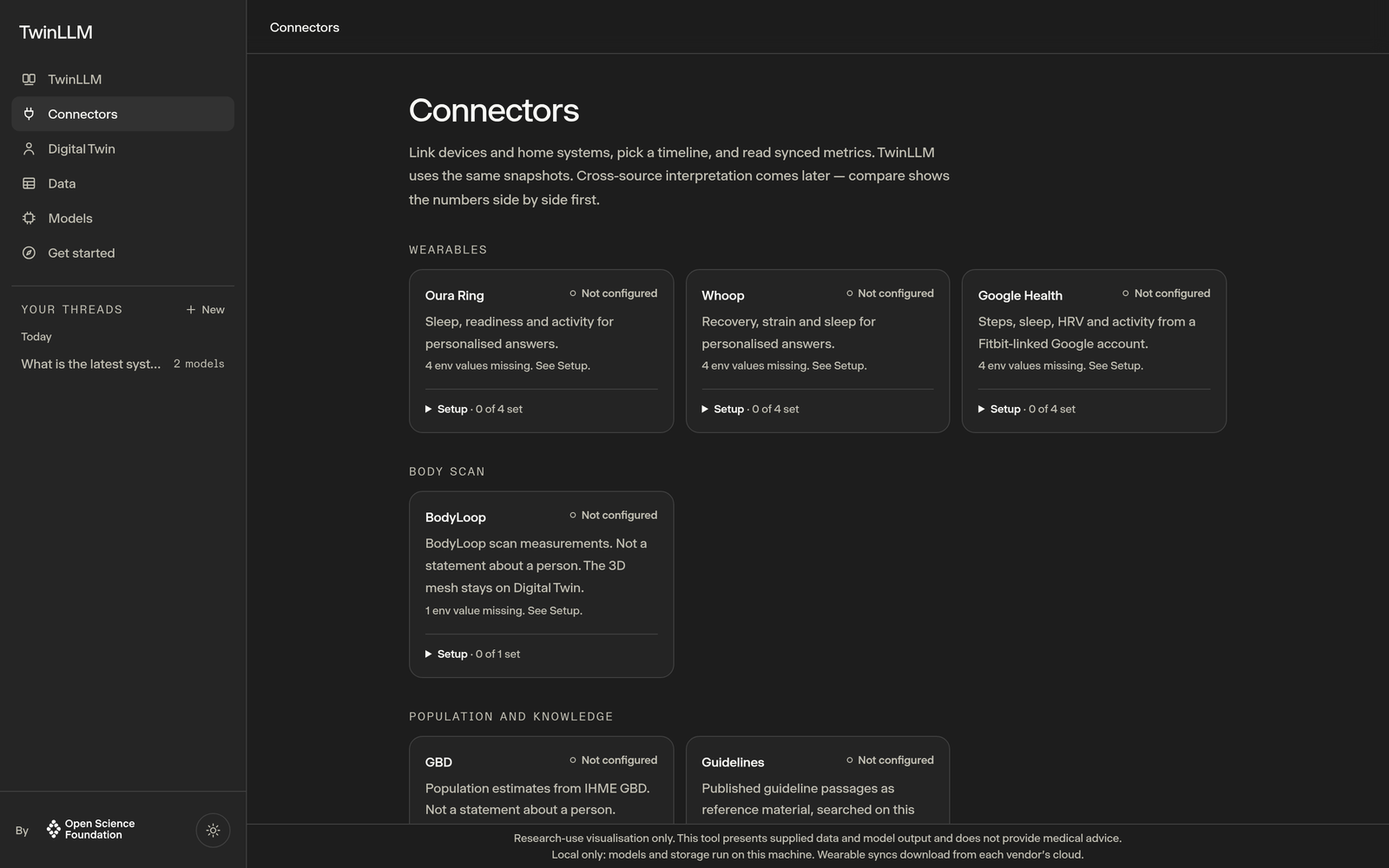
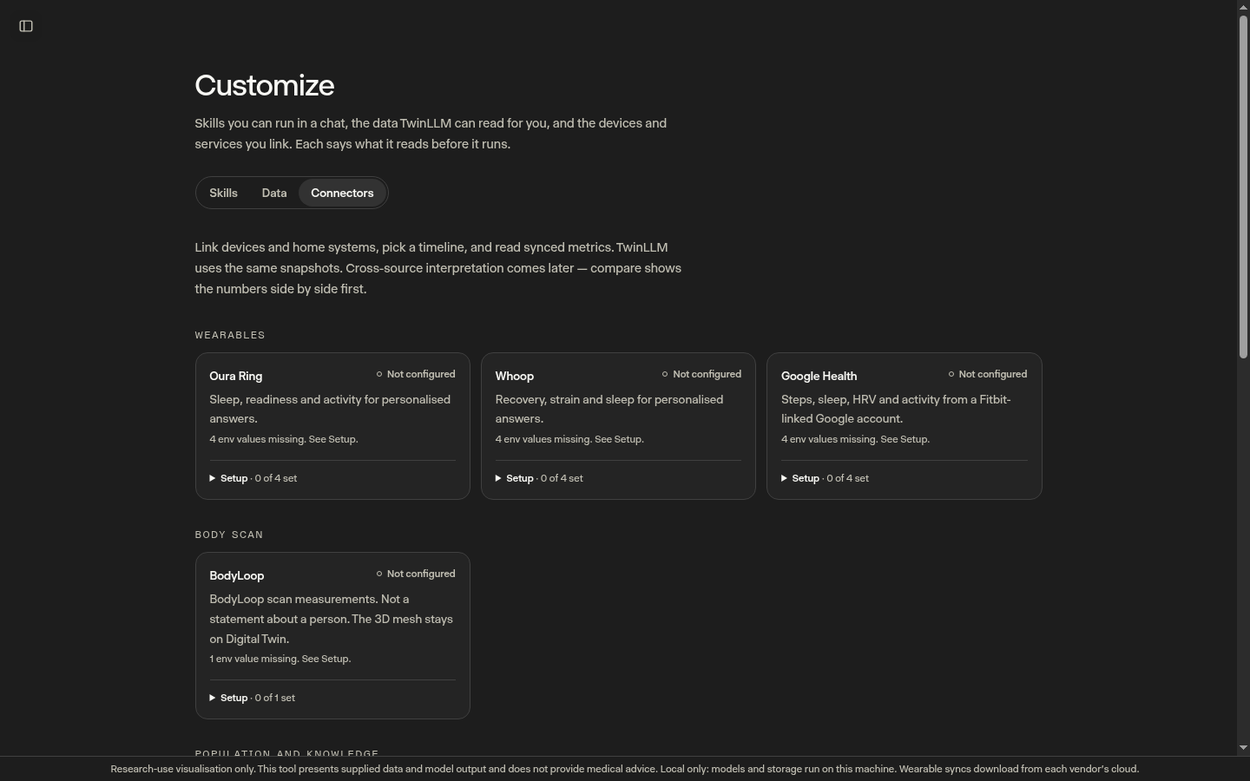
README: simplifier and new screenshots (#199)
* feat(#133): wearable tools for sleep, HRV, resting HR and training load

Adds sleep_summary, hrv_trend, resting_hr_trend and training_load. Every
row names its source and sources are never pooled. Personal mode reads the
turn's linked snapshots (the show_view wearable path); synthetic mode reads
a synthetic subject's series from the warehouse with one capped, scoped
read. Trends reuse the trend and baseline_deviation maths; the load ratio is
labelled only as recent load compared with the previous four weeks. New
refusals SOURCE_NOT_CONNECTED and WINDOW_TOO_SHORT. The tools get their own
source toggle and /sleep uses sleep_summary. The synthetic wearable
generator (v2) adds workouts without changing the daily series. Twelve eval
items are appended and the key rebuilt; earlier values are unchanged.

Refs #7

* feat(#3): search, sort and page Data page subjects in SQL

* feat(#5): ingest a batch's FHIR folder in parallel processes

* feat(#158): coverage curve and readings per subject on the Data page

The top-20 bar list sat near 100% for every code. Every code is now drawn
most widespread first by its share of subjects, with the 80% and 10%
thresholds and a table of all codes. Readings per subject is a histogram
from one capped Prisma groupBy, audited as data-explorer.cohort.readings.

* feat(#157): setup writes a sample set for the Training tab

bun run training:sample runs the training generator on 12 subjects of the
[…]

diff --git a/README.md b/README.md
@@ -1,8 +1,8 @@
 # TwinLLM
 
-**Ask questions about health data with open language models, and see exactly which numbers every answer used.**
+Ask questions about health data with open models, side by side, and see which numbers each answer used.
 
-TwinLLM is an open-source research application by the [Open Science Foundation](https://github.com/Opening-Science). It connects wearables, body scans and synthetic patient cohorts to open models you can run on your own machine, lets several models answer the same question side by side, and shows the evidence behind every answer. It is built on [open-twin](https://github.com/Opening-Science/open-twin), the foundation's library of health-data connectors to coded FHIR R4.
+TwinLLM is an open-source research app from the [Open Science Foundation](https://github.com/Opening-Science). It reads wearables, body scans and synthetic patient cohorts, lets up to three open models answer the same question, and shows the tool calls and values behind every answer. Models can run on your own machine. Health data comes in as coded FHIR R4 through [open-twin](https://github.com/Opening-Science/open-twin), the foundation's connector library.
 
 [![CI](https://github.com/Opening-Science/twin-llm/actions/workflows/ci.yml/badge.svg)](https://github.com/Opening-Science/twin-llm/actions/workflows/ci.yml)
 [![Licence: Apache-2.0](https://img.shields.io/badge/licence-Apache--2.0-blue.svg)](LICENSE)
@@ -10,74 +10,52 @@ TwinLLM is an open-source research application by the [Open Science Foundation](
 
 <picture>
   <source media="(prefers-color-scheme: dark)" srcset="docs/images/chat-dark.png">
-  <img src="docs/images/chat-light.png" alt="Three local open models answering one heart-rate question about a synthetic evaluation-cohort subject side by side. Each answer shows the data tools it called, its numbers and an inline heart-rate chart; the Outputs panel on the right lists the three charts.">
+  <img src="docs/images/chat-light.png" alt="Three local models (qwen3:4b, a TwinLLM fine-tune and qwen3:8b) answering how a synthetic subject's heart rate changed. Each column lists the tools it called with their row counts, then its answer, reasoning, evidence and uncertainty.">
 </picture>
 
 > **Research use only.** TwinLLM gives no medical advice and is not for diagnostic use. See [Intended use](#intended-use).
 
-## Why TwinLLM
+## What it does
 
-Language models are good at sounding sure. Health data needs the opposite: numbers you can trace, units you can trust, and a model that says "not enough data" when that is the honest answer. TwinLLM is a place to work on that in the open:
+- **Answers come from tools, not from memory.** A model never sees raw records. It calls a small set of closed query tools (latest value, trend, baseline, coverage, before and after an event, two wearables compared), and every call lands in an append-only audit log. Each tool call shows as a card above the answer, with the rows it read.
+- **Several models, one question.** Up to three models answer side by side, each with its reasoning, cited values and uncertainty. A model that refuses, guesses a code or writes nothing is shown as it happened.
+- **Local first.** With `LOCAL_ONLY=true` the models, embeddings and database all run on your machine.
+- **Synthetic data to start.** A Synthea cohort ships with setup, so you can try everything, run the evaluation or build training data without a real person's records.
 
-- **Every number has a source.** Models do not read raw records. They call a small set of closed query tools (latest value, trend, baseline, coverage, comparison) over coded observations, and every call is written to an append-only audit log.
-- **Open models, side by side.** Ask one question and get answers from up to three models, each with its reasoning, cited values and uncertainty, so you can compare them on the same footing.
-- **Local first.** With `LOCAL_ONLY=true`, models, embeddings and storage all stay on your machine.
-- **Honest by design.** Answers that do not rest on enough data are withheld, missing values are never turned into zero, and the interface copy is checked in CI for medical claims.
-- **Synthetic data to start with.** A built-in Synthea cohort lets anyone try the full app, run the evaluation or build training data without touching a real person's records.
+| Page             | What you do there                                                                                                                                                                         |
+| ---------------- | ----------------------------------------------------------------------------------------------------------------------------------------------------------------------------------------- |
+| **Chat**         | Ask about a subject's measurements or your own wearables. `/sleep` and `/trainer` run a skill, `/twin` opens the digital twin in the chat, and Ctrl/⌘+K searches threads, pages and docs. |
+| **Incognito**    | A chat that is never saved, never indexed for search and only runs on local models.                                                                                                       |
+| **Digital Twin** | A 3D body with reference anatomy, live vitals and biomarkers by organ system.                                                                                                             |
+| **Customize**    | Your own skills (a form, stored per person), data you import (FHIR records, lab results as CSV, research tables) and connectors (Oura, Whoop, Google Health, BodyLoop).                   |
+| **Cohort**       | Browse the synthetic cohort: what is measured, for whom, how often, and the training conversations made from it. Any subject can be asked about in one click.                             |
+| **Evaluation**   | Score models on about a hundred questions over the synthetic cohort, with every model call cached for replay.                                                                             |
+
+<p>
+  <img src="docs/images/search-light.png" width="49%" alt="The search dialog over a chat: threads matching heart rate, with readable titles, followed by matching docs.">
+  <img src="docs/images/incognito-dark.png" width="49%" alt="A new incognito chat in dark mode, with the banner saying it is not saved, not in threads or search, local models only.">
+</p>
+<p>
+  <img src="docs/images/customize-light.png" width="49%" alt="Customize, Skills tab: no own skills yet and a New skill button, then the shipped /genome, /sleep and /trainer skills with what each reads and may call.">
+  <img src="docs/images/cohort-light.png" width="49%" alt="The synthetic cohort overview under Customize, Data, with a plain introduction to subjects, observations, LOINC codes, units and cohorts.">
+</p>
+<p>
+  <img src="docs/images/digital-twin-dark.png" width="49%" alt="The Digital Twin page in dark mode: a synthetic demo body at the Skeleton depth with the anatomy panel.">
+  <img src="docs/images/connectors-dark.png" width="49%" alt="Customize, Connectors, in dark mode: Oura, Whoop and Google Health cards with their setup status, and BodyLoop under body scan.">
+</p>
 
 ## Data privacy
 
-Health data is among the most sensitive data a person has, and a digital twin concentrates
-it in one place. TwinLLM is built so that privacy does not depend on a policy page or on
-trusting an operator: the rules below are enforced by the code, checked by tests in CI, and
-visible in the source for anyone to audit.
+Health data is about as sensitive as data gets, and a digital twin puts a lot of it in one place. So the rules are in the code and checked in CI, not on a policy page:
 
-- **Local by default.** With `LOCAL_ONLY=true`, the models, the embeddings and the database
-  all run on your own machine. Nothing about you needs to leave it.
-- **No third-party model ever sees personal data.** External model services, such as
-  OpenRouter or a rented GPU, are refused for anything but synthetic data. Our own
-  Swiss-hosted models receive personal data only in an explicitly configured, consented
-  pilot, because the operator of a hosted GPU can in principle read a running machine's
-  memory.
-- **The model never reads your raw records.** It works through a small set of closed query
-  tools that return numbers with their units and dates, and body-scan data reaches it only
-  as numeric measurements, never as images or meshes.
-- **Every data read is on the record.** Each query a model makes is written to an
-  append-only, hash-linked audit log, so tampering with the history is detectable.
-- **Your conversations are yours.** Threads open only for their owner, wearable tokens are
-  encrypted at rest, logs are kept free of health values and secrets, and analytics, if
-  enabled at all, carry counts and timings, never your questions or answers.
-- **No model of you.** TwinLLM never fits or fine-tunes a model on one person's data, so
-  there is no per-person model that could memorise and leak that person. It answers
-  through audited queries over the person's own record. Development, evaluation and
-  training use synthetic patients generated with Synthea.
+- **Local by default.** With `LOCAL_ONLY=true`, nothing about you needs to leave your machine.
+- **No third-party model sees personal data.** OpenRouter, a rented GPU or any other outside model service is refused for anything but synthetic data. Our own Swiss-hosted models get personal data only in an explicitly configured, consented pilot, because whoever runs a GPU host can in principle read its memory.
+- **The model reads numbers, not records.** It gets values with units and dates from the query tools. Body scans reach it as measurements only, never as images or meshes.
+- **Every read is logged.** Each tool call goes into an append-only, hash-linked audit log, so editing the history shows.
+- **Your threads are yours.** A thread opens only for its owner, wearable tokens are encrypted at rest, logs carry no health values or secrets, and analytics (if switched on) carry counts and timings, never questions or answers. Incognito chats are not stored at all.
+- **No model of you.** TwinLLM never fine-tunes on one person's data. Training and evaluation use synthetic patients only.
 
-What remains unsolved is just as important to say. Wearable data still originates in each
-vendor's cloud, and no one, including us, can yet measure how much an answer or insight
-shared with a third party discloses about the one person a twin describes. That open problem
-is the focus of the Open Science Foundation's first funding call. The full data-flow table is under
-[What leaves your machine](#what-leaves-your-machine).
-
-## What you can do with it
-
-|                   |                                                                                                                              |
-| ----------------- | ---------------------------------------------------------------------------------------------------------------------------- |
-| **Chat**          | Ask about one subject's measurements with optional wearable context; compare up to three open models.                        |
-| **Digital Twin**  | Explore a 3D body with reference anatomy, live vitals and biomarkers lit by organ system.                                    |
-| **Data**          | Browse the synthetic cohort: what is measured, how often, for whom, and the training conversations made from it.             |
-| **Connectors**    | Link Oura, Whoop and Google Health, a BodyLoop body scanner, and knowledge sources.                                          |
-| **Get started**   | A short first-run flow: what you are here for, which data to connect, which sources the model may use, where your data goes. |
-| **Evaluation**    | Score models on the evaluation question set over the synthetic cohort, with every model call cached for replay.              |
-| **Training data** | Turn synthetic cohorts into tool-use conversations for fine-tuning open models.                                              |
-
-<p>
-  <img src="docs/images/digital-twin-dark.png" width="49%" alt="The Digital Twin page in dark mode: a synthetic demo body at the Skeleton depth with the depth slider and the Biomarkers panel.">
-  <img src="docs/images/data-light.png" width="49%" alt="The Data page: a plain-language introduction to the synthetic cohort, with what a subject, an observation, a LOINC code, a unit and a cohort mean.">
-</p>
-<p>
-  <img src="docs/images/start-light.png" width="49%" alt="The first-run flow asking what brings you here, with roles to pick and a choice between the synthetic demo cohort and your own data.">
-  <img src="docs/images/connectors-dark.png" width="49%" alt="The Connectors page in dark mode, with cards for Oura, Whoop, Google Health, BodyLoop, GBD and Guidelines, each showing its setup status.">
-</p>
+Two problems are still open. Wearable data starts in each vendor's cloud, and nobody yet knows how to measure how much an answer shared with someone else gives away about the one person a twin describes. That second question is what the Open Science Foundation's first funding call is about. The full table is under [What leaves your machine](#what-leaves-your-machine).
 
 ## Run it locally
 
@@ -91,7 +69,17 @@ ollama pull qwen3:8b && ollama pull nomic-embed-text
 bun run dev
 ```
 
-`setup:local` checks the prerequisites and prints the Homebrew or apt line for anything missing (it never installs system packages). It then writes `.env.local` from `.env.synthetic.example` if there is none, syncs the pinned open-twin packages, installs dependencies, creates the database if it does not exist, applies the migrations, downloads the anatomy atlases and the rigged demo bodies (from the `anatomy-rigged-v1` release; baked with uv only if that fails), and downloads and ingests the 30-person synthetic evaluation cohort (Synthea, fixed seed and dates, from the `eval-cohort-v1` release, checksum verified; `-- --generate-cohort` generates it locally instead, which gives the pinned files on x86_64 only). It also adds one example thread, "Example (synthetic)", to Your threads: a heart-rate chart question about a synthetic subject, built from a recorded answer, so no model is needed (`-- --skip-example` leaves it out), and writes a small sample of training conversations from 12 people of that cohort for the Data page's Training tab (`bun run training:sample`; to look at, never to train on; `-- --skip-training-sample` leaves it out). It is safe to re-run: finished steps are skipped. It ends with a checklist of what is ready and what was skipped and why. An evaluation cohort in the warehouse that is not the pinned one (an older copy with 35 subjects instead of 37) is marked `[stale]`; `bun run setup:local -- --reload-cohort` replaces that cohort's warehouse rows and nothing else. `bun run doctor` prints the same checks and what each page needs, without changing anything.
+`setup:local` is safe to re-run; finished steps are skipped. It:
+
+- checks the prerequisites and prints the Homebrew or apt line for anything missing (it never installs system packages);
+- writes `.env.local` from `.env.synthetic.example` if there is none, syncs the pinned open-twin packages and installs dependencies;
+- creates the database if needed and applies the migrations;
+- downloads the anatomy atlases and the rigged demo bodies (baked locally with uv only if the download fails);
+- downloads and ingests the synthetic evaluation cohort (Synthea, fixed seed and dates, checksum verified; `-- --generate-cohort` builds it locally instead);
+- adds one example thread built from a recorded answer, so you can look around before pulling a model (`-- --skip-example` leaves it out), and a small sample of training conversations for the Cohort page (`-- --skip-training-sample`);
+- ends with a checklist of what is ready and what was skipped.
+
+`bun run doctor` prints the same checks without changing anything, including whether `node_modules` and the Prisma client match the repo. `bun run dev` fixes both before it starts. If the evaluation cohort in your database is an older copy, doctor marks it `[stale]` and `bun run setup:local -- --reload-cohort` replaces just that cohort.
 
 On macOS with Homebrew:
 
@@ -102,13 +90,13 @@ export PATH="$(brew --prefix openjdk@21)/bin:$PATH"   # add to ~/.zshrc
 bun run setup:local   # without DATABASE_URL it uses postgresql://$USER@127.0.0.1:5432/twin_llm_synthetic
 ```
 
-`bun run setup:local -- --cohort-10k` loads the 10,000-person cohort from the [`cohort-synthea-v4-seed42-10k`](https://github.com/Opening-Science/twin-llm/releases/tag/cohort-synthea-v4-seed42-10k) release instead (about 1 GB download and 45 GB free disk while it unpacks). Open <http://localhost:3000>. This runs fully on your machine against synthetic data: no account, no cloud keys. Wearables and the rest: [`docs/runbook.md`](docs/runbook.md).
+Then open <http://localhost:3000>. That runs entirely on your machine against synthetic data, with no account and no cloud keys. `bun run setup:local -- --cohort-10k` loads the 10,000-person cohort instead (about 1 GB to download and 45 GB free while it unpacks). Wearables and everything else: [`docs/runbook.md`](docs/runbook.md).
 
 ## How it works
 
 ![TwinLLM data flow: wearable, body-scan, guideline and knowledge, population, synthetic and genome lines run from their sources through sync, storage and tools into an open model, which writes the chat answer and runs the synthetic evaluation.](docs/diagrams/data-flow.svg)
 
-Connectors bring data in as coded FHIR R4 observations (LOINC codes, UCUM units) through open-twin. The warehouse stores them per subject. A chat turn gives the model a fixed system prompt and the closed query tools; the model calls them, and the answer is parsed into a response document with its evidence, reasoning, uncertainty and answer class. Solid lines in the diagram are built; dashed lines are planned.
+Connectors bring data in as coded FHIR R4 observations (LOINC codes, UCUM units) through open-twin, and the warehouse stores them per subject. A chat turn gives the model a fixed system prompt and the query tools. The model calls the tools, and its reply is parsed into a response document with evidence, reasoning, uncertainty and an answer class. In the diagram, solid lines are built and dashed lines are planned.
 
 ### What leaves your machine
 
@@ -132,8 +120,8 @@ Details: [`docs/providers.md`](docs/providers.md).
 | --------------------------------------------- | --------------------------------------------------------------------------------------------------- |
 | `ollama` (**default with `LOCAL_ONLY=true`**) | Local models on this machine, including MedGemma                                                    |
 | `exoscale` (**default otherwise**)            | Our own open models on vLLM, on an Exoscale GPU instance in Switzerland; needs `EXOSCALE_BASE_URLS` |
-| `openrouter`                                  | Free OSS (`*:free`) — only when `DATA_MODE=synthetic` and no snapshot                               |
-| `remote-gpu`                                  | Your own vLLM (e.g. Apertus) over an SSH tunnel — synthetic data only                               |
+| `openrouter`                                  | Free OSS (`*:free`), only when `DATA_MODE=synthetic` and no snapshot                                |
+| `remote-gpu`                                  | Your own vLLM (e.g. Apertus) over an SSH tunnel, synthetic data only                                |
 | `infomaniak` (legacy)                         | Swiss-hosted OSS, OpenAI-compatible (cloud); only when named, never a default; synthetic data only  |
 
 The open-model lineup for comparisons is in [`docs/models.md`](docs/models.md).
@@ -148,7 +136,7 @@ The open-model lineup for comparisons is in [`docs/models.md`](docs/models.md).
 
 ## Evaluation
 
-About a hundred questions (`evaluation/questions.v1.json`) over six synthetic scenarios, scored on eight criteria: correctness, hallucination, privacy, query safety, clinical caution, readability, consistency and latency. The answer key comes from the synthetic cohort through the same closed tools the models call.
+About a hundred questions (`evaluation/questions.v1.json`) over six synthetic scenarios, scored on correctness, hallucination, privacy, query safety, clinical caution, readability, consistency and latency. The answer key is built from the cohort with the same tools the models call.
 
 ```bash
 bun run eval -- --models ollama:qwen3:4b --latency-set
@@ -159,18 +147,18 @@ Every model call is cached, so `--replay` re-scores a run without a GPU. Details
 
 ## Project layout
 
-| Path              | What lives there                                                                     |
-| ----------------- | ------------------------------------------------------------------------------------ |
-| `app/`            | Next.js routes and API handlers                                                      |
-| `features/`       | One folder per feature: chat, digital twin, connectors, data explorer, onboarding, … |
-| `infrastructure/` | Environment, database, analytics, auth and shared UI primitives                      |
-| `packages/`       | Query tools, warehouse, biomarkers, guidelines, knowledge, BodyLoop client           |
-| `scripts/`        | Synthea, ingest, evaluation and training-data command lines                          |
-| `docs/`           | Design notes, runbook and reference                                                  |
+| Path              | What lives there                                                                  |
+| ----------------- | --------------------------------------------------------------------------------- |
+| `app/`            | Next.js routes and API handlers                                                   |
+| `features/`       | One folder per feature: chat, search, skills, digital twin, connectors, cohort, … |
+| `infrastructure/` | Environment, database, analytics, auth and shared UI primitives                   |
+| `packages/`       | Query tools, warehouse, biomarkers, guidelines, knowledge, BodyLoop client        |
+| `scripts/`        | Synthea, ingest, evaluation and training-data command lines                       |
+| `docs/`           | Design notes, runbook and reference                                               |
 
 ## Contributing
 
-Contributions are welcome, from a typo fix to a new connector. Good places to start:
+Contributions are welcome, from a typo to a new connector. Good places to start:
 
 - issues labelled [`good first issue`](https://github.com/Opening-Science/twin-llm/labels/good%20first%20issue) and [`help wanted`](https://github.com/Opening-Science/twin-llm/labels/help%20wanted);
 - trying the quick start on your machine and telling us what was unclear;
@@ -196,9 +184,9 @@ The software is supplied under the warranty and liability terms of its [licence]
 
 ## Related projects
 
-- [Open Wearables](https://github.com/the-momentum/open-wearables) — wearable interchange work. TwinLLM consumes coded FHIR R4 via open-twin rather than a parallel interchange format.
-- [omh-shim](https://github.com/jupyterhealth/omh-shim) / [JupyterHealth](https://jupyterhealth.org) — produce [Open mHealth](https://www.openmhealth.org/), optionally wrapped in FHIR. open-twin produces coded FHIR R4 Observations (LOINC + UCUM).
-- [HealthKitOnFHIR](https://github.com/StanfordBDHG/HealthKitOnFHIR) — Apple HealthKit to FHIR on device. TwinLLM is a server-side companion for Oura, Whoop, and Google Health.
+- [Open Wearables](https://github.com/the-momentum/open-wearables): wearable interchange. TwinLLM reads coded FHIR R4 through open-twin instead of a separate interchange format.
+- [omh-shim](https://github.com/jupyterhealth/omh-shim) and [JupyterHealth](https://jupyterhealth.org): [Open mHealth](https://www.openmhealth.org/), optionally wrapped in FHIR. open-twin writes coded FHIR R4 Observations (LOINC and UCUM).
+- [HealthKitOnFHIR](https://github.com/StanfordBDHG/HealthKitOnFHIR): Apple HealthKit to FHIR on the device. TwinLLM is the server side for Oura, Whoop and Google Health.
 
 ## Licence
 

diff --git a/CHANGELOG.md b/CHANGELOG.md
@@ -42,6 +42,8 @@ and versions follow [Semantic Versioning](https://semver.org/).
 
 ### Changed
 
+- README rewritten in plainer words, with every screenshot retaken on the current design: chat (light and dark), search, incognito, Customize, the cohort, Digital Twin and Connectors. The setup paragraph is a list, and import formats say what ships today.
+
 - The Data page's subject list is searched, sorted and paged in the database (#3): the search is a subject_ref prefix (it was a substring), the sort one of five fixed columns, and only the 25 rows shown are read. The overview's per-code counts come from one statement, and overview and subject pages are cached per cohort for up to 5 minutes while the cohort's bundles are unchanged. The subject list's audit row now records the page shown and its query.
 - Digital Twin body viewer (#160): every panel (View controls, Scene, Anatomy, Details, the "What moves" vitals box, scan overlays, Sources) folds under its title through one shared, keyboard-accessible component and remembers that per viewer in localStorage. The atlas follows the body's sex: a Demo body follows its synthetic person's stored sex and gets HRA female when female; a mismatch, or a missing female atlas, is said in the Anatomy panel. Every atlas mesh can be picked, inline too (HRA meshes with no structure key now light a group of their own name). W A S D and the arrow keys walk whenever the pointer is over the 3D view or it has focus, never while typing.
 - `warehouse:ingest` splits a folder across `--workers` ingest processes (default: CPU cores − 1), and `training:batches --workers` passes that on (#5). Each file is parsed once, so there is no checking pass before the first write: a file that does not parse or is not Synthea is rejected on its own (`invalid-json`, `not-synthea`) while the other files are ingested, and the run still exits 1. An ingest that throws is tried once more before it counts as `ingest-failed`.
